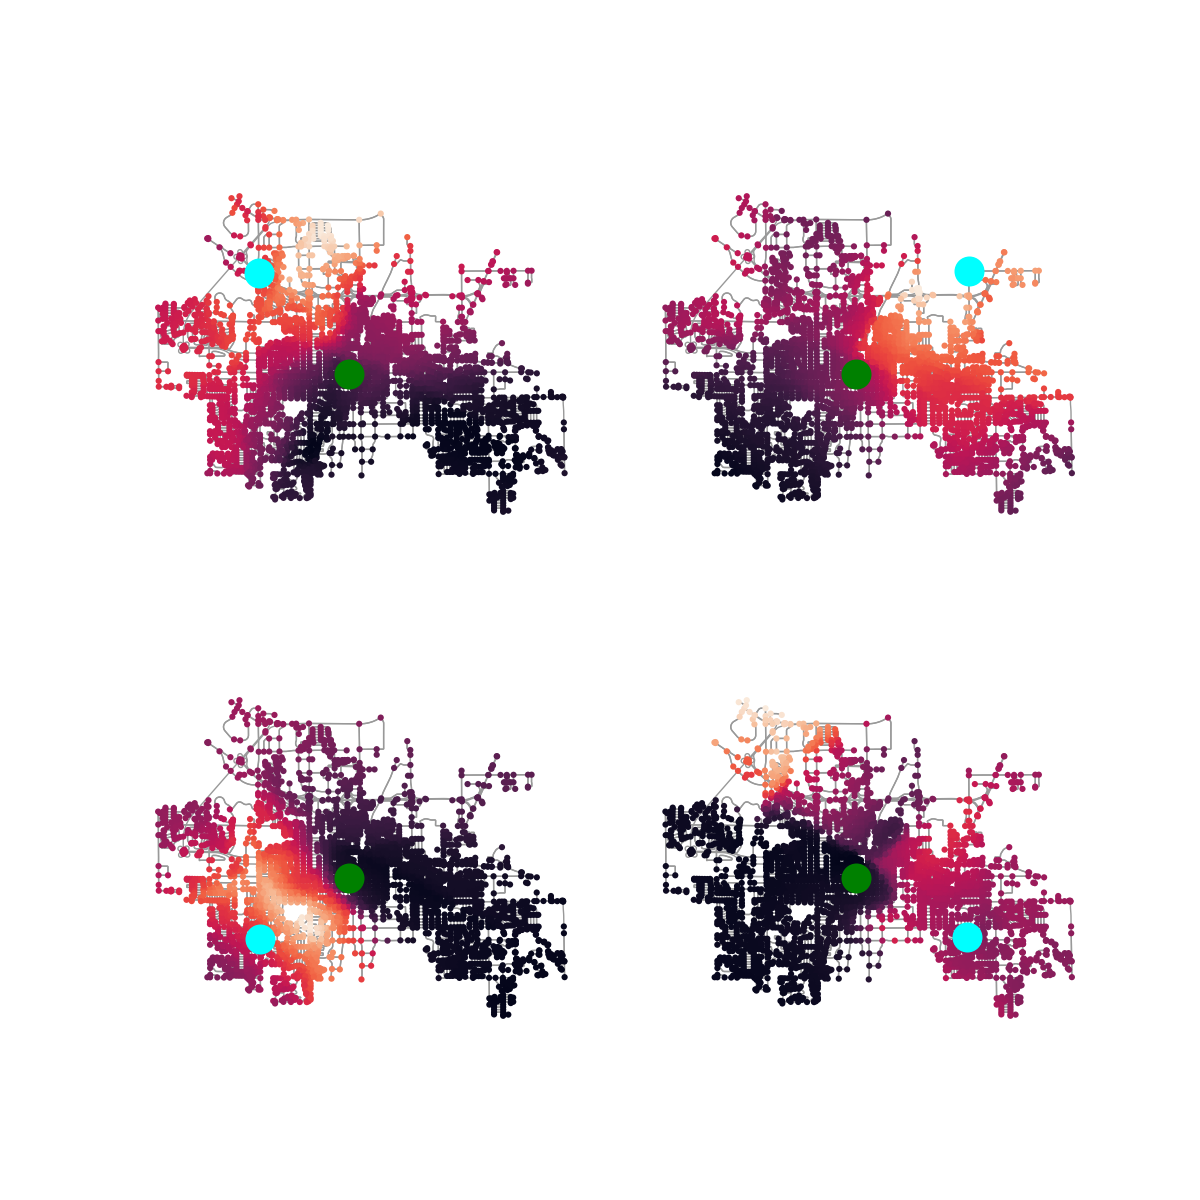
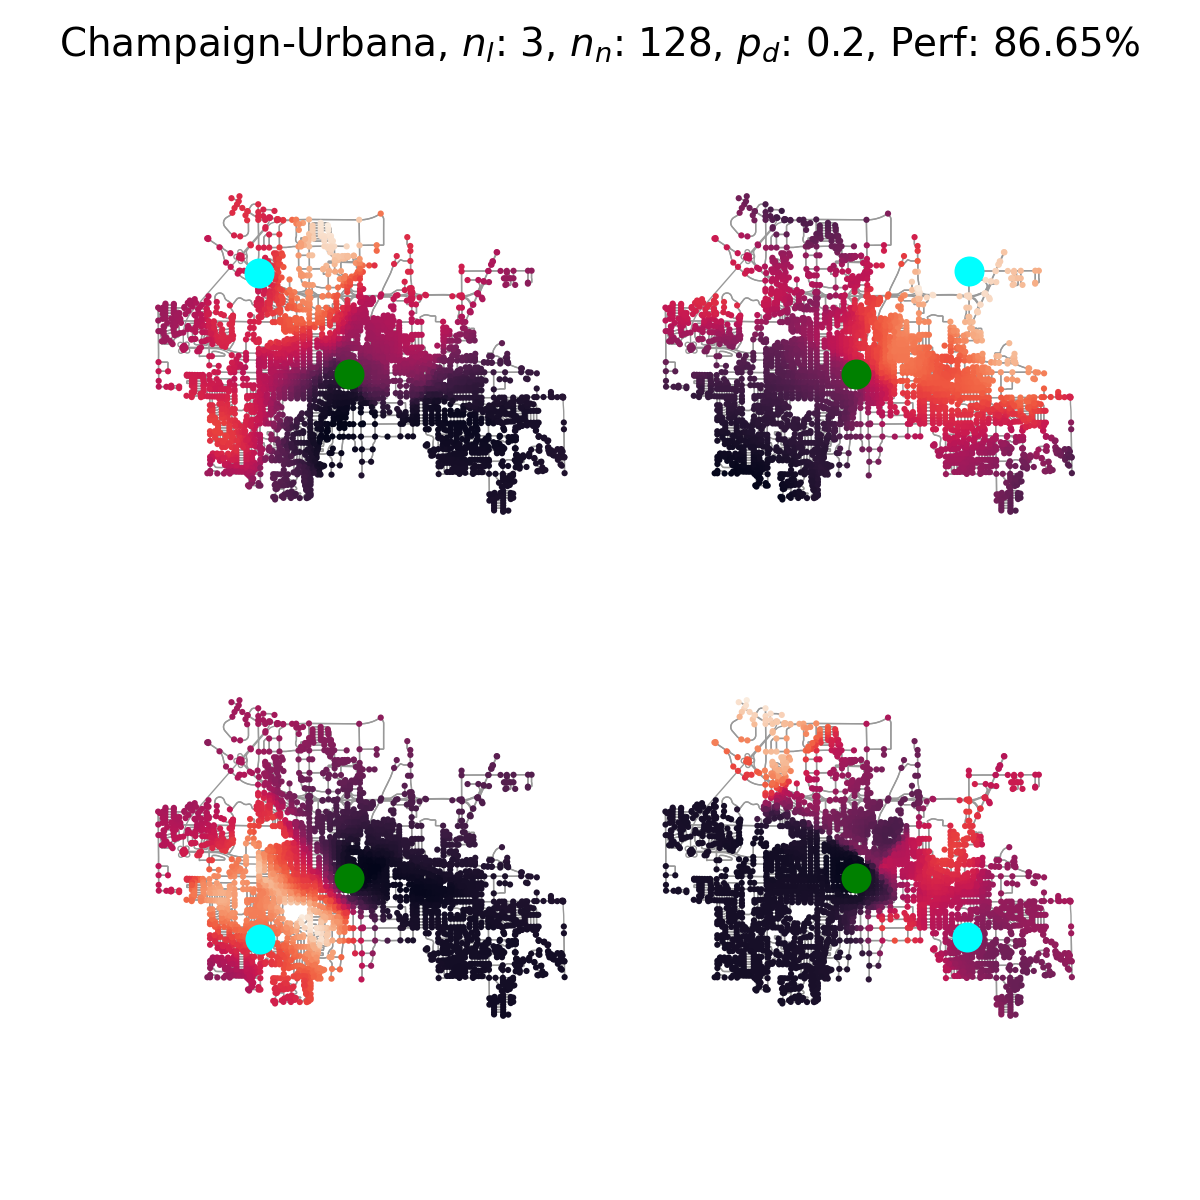
testing different metrics

diff --git a/rltest.py b/rltest.py
@@ -10,7 +10,8 @@ import matplotlib.pyplot as plt
 # import matplotlib as mpl
 import geopy.distance as gd
 # import re
-import seaborn as sns;
+import seaborn as sns
+import random
 
 # sns.set_theme()
 # sns.set_style("whitegrid")
@@ -87,8 +88,8 @@ n_l = 3
 n_n = 128
 d_p = 0.2
 lr = 0.001
-act = "ReLU" #dtchicago soa: 3-32-0.2-GELU
-epochs = 10000 #TODO: test these settings on Chicago.
+act = "SELU" #dtchicago soa: 3-32-0.2-GELU
+epochs = 1000
 
 class ModelSELU(nn.Module):
 
@@ -255,9 +256,56 @@ with torch.no_grad():
 predictions = predictions.cpu().numpy()
 reals = test_outputs.cpu().numpy()
 
+bias, optv = utils.findOptSamp(reals,predictions,0.001,0.01,99.99)
+
+diffs = [np.abs(np.abs(reals[i] - predictions[i])-bias)  for i in range(len(reals))]
+mx = np.argmin(diffs)
+# mx = 0
+
 pcts = []
+acc = 0
+tot = 0
+diffs = []
+rths = np.percentile(reals, 99.99)
 for i in range(len(reals)):
-    pcts.append(np.abs(reals[i] - predictions[i]) / predictions[i])
+    if reals[i] < rths:
+        pcts.append(np.abs(reals[i] - predictions[i]) / predictions[i])
+        tot += 1
+        if (reals[mx]>=reals[i] and predictions[mx]>=predictions[i]) or (reals[mx]<reals[i] and predictions[mx]<predictions[i]):
+            acc += 1
+        else:
+            d1 = np.abs(predictions[i] - predictions[mx]) / predictions[i]
+            d2 = np.abs(predictions[i] - predictions[mx]) / predictions[mx]
+            diffs.append(np.minimum(d1, d2))
+
+pcts = np.stack(pcts)
+print(np.mean(diffs))
+pct_err = acc/tot
+print(pct_err)
+
+acc = 0
+tot = 0
+cases = 10000
+diffs_ran = []
+rths = np.percentile(reals, 99.99)
+for i in range(cases):
+    i1 = random.randint(0, len(reals) - 1)
+    i2 = random.randint(0, len(reals) - 1)
+    if reals[i1] < rths and reals[i2] < rths:
+        tot += 1
+        if (reals[i1] > reals[i2] and predictions[i1] > predictions[i2]) or (
+                reals[i1] < reals[i2] and predictions[i1] < predictions[i2]):
+            acc += 1
+        else:
+            d1 = np.abs(predictions[i1]-predictions[i2])/predictions[i1]
+            d2 = np.abs(predictions[i1]-predictions[i2])/predictions[i2]
+            diffs_ran.append(np.minimum(d1,d2))
+
+perf_ran = acc/tot
+print(np.mean(diffs_ran))
+print(perf_ran)
+pct_err = np.maximum(perf_ran, pct_err)
+mean_rank_err = np.minimum(np.mean(diffs_ran), np.mean(diffs))
 
 test_size = len(reals)
 
@@ -304,7 +352,7 @@ perf_mse = np.mean(perf_mse)
 im.reload(utils)
 fig = plt.figure(figsize=utils.figsize, dpi=utils.dpi)
 suptitle_font = {'fontsize': 14, 'fontweight': 'normal', 'y': 0.98}
-fig.suptitle(utils.getCityName(city) + ', $n_l$: {}, $n_n$: {}, $p_d$: {}, MAE: {:5.4}'.format(n_l, n_n, d_p, np.mean(perf_mae)),
+fig.suptitle(utils.getCityName(city) + ', $n_l$: {}, $n_n$: {}, $p_d$: {}, Perf: {:4.2f}%'.format(n_l, n_n, d_p, pct_err*100),
              **suptitle_font)
 ax221 = fig.add_subplot(221)
 ax222 = fig.add_subplot(222)
@@ -315,7 +363,7 @@ rp = 0.75
 rm = 0.25
 vmin = None
 vmax = 0.1
-numticks = 1000
+numticks = 100
 depot_x, depot_y = utils.LatLonToUnit(depot_local[0], depot_local[1], coord_bounds)
 predictions = utils.TwoDPredictions(model, rm, rp, device, numticks)
 sns.heatmap(predictions, square=True, xticklabels=False, yticklabels=False, ax=ax221, cbar=True,
@@ -419,7 +467,7 @@ ax224 = utils.scatterGraph(dest_node, G, ax224, color=utils.dest_color)
 filepath = 'images/' + city + 'map_heat_untitled.png'
 plt.savefig(filepath)
 
-fig.suptitle(utils.getCityName(city) + ', $n_l$: {}, $n_n$: {}, $p_d$: {}, MAE: {:5.4}'.format(n_l, n_n, d_p, np.mean(perf_mae)),
+fig.suptitle(utils.getCityName(city) + ', $n_l$: {}, $n_n$: {}, $p_d$: {}, Perf: {:4.2f}%'.format(n_l, n_n, d_p, pct_err*100),
              **suptitle_font)
 
 filepath = 'images/' + city + 'map_heat.png'
@@ -475,11 +523,14 @@ print('MSE', perf_mse)
 print('MAE', np.mean(perf_mae))
 print('Max Err', np.max(np.abs(perf)))
 print('Pct Err', np.mean(pcts))
+print('Pct Err adjusted', pct_err)
+print('Rank Err', mean_rank_err)
 
 import csv
 
 fields = [city, n_l, n_n, act, d_p, epochs, perf_mse, np.mean(perf_mae)]
 print(fields)
+
 with open(r'log_hyper.csv', 'a') as f:
     writer = csv.writer(f)
     writer.writerow(fields)

diff --git a/utils.py b/utils.py
@@ -1547,3 +1547,32 @@ def getCityName(city):
         city_name = None
 
     return city_name
+
+def findOptSamp(reals, predictions, v1, v2, pt=60):
+    r = np.arange(v1,v2,0.0005)
+    vals = []
+    for e in r:
+        diffs = [np.abs(np.abs(reals[i] - predictions[i]) - e) for i in range(len(reals))]
+        mx = np.argmin(diffs)
+        acc = 0
+        tot = 0
+        diffs = []
+        rths = np.percentile(reals, pt)
+        for i in range(len(reals)):
+            if reals[i] < rths:
+                tot += 1
+                if (reals[mx] >= reals[i] and predictions[mx] >= predictions[i]) or (
+                        reals[mx] < reals[i] and predictions[mx] < predictions[i]):
+                    acc += 1
+                else:
+                    d1 = np.abs(predictions[i] - predictions[mx]) / predictions[i]
+                    d2 = np.abs(predictions[i] - predictions[mx]) / predictions[mx]
+                    diffs.append(np.minimum(d1, d2))
+
+        pct_err = acc / tot
+        # print(pct_err)
+        # print(np.mean(diffs))
+        vals.append(pct_err)
+
+    idx = np.argmax(vals)
+    return r[idx], vals[idx]
